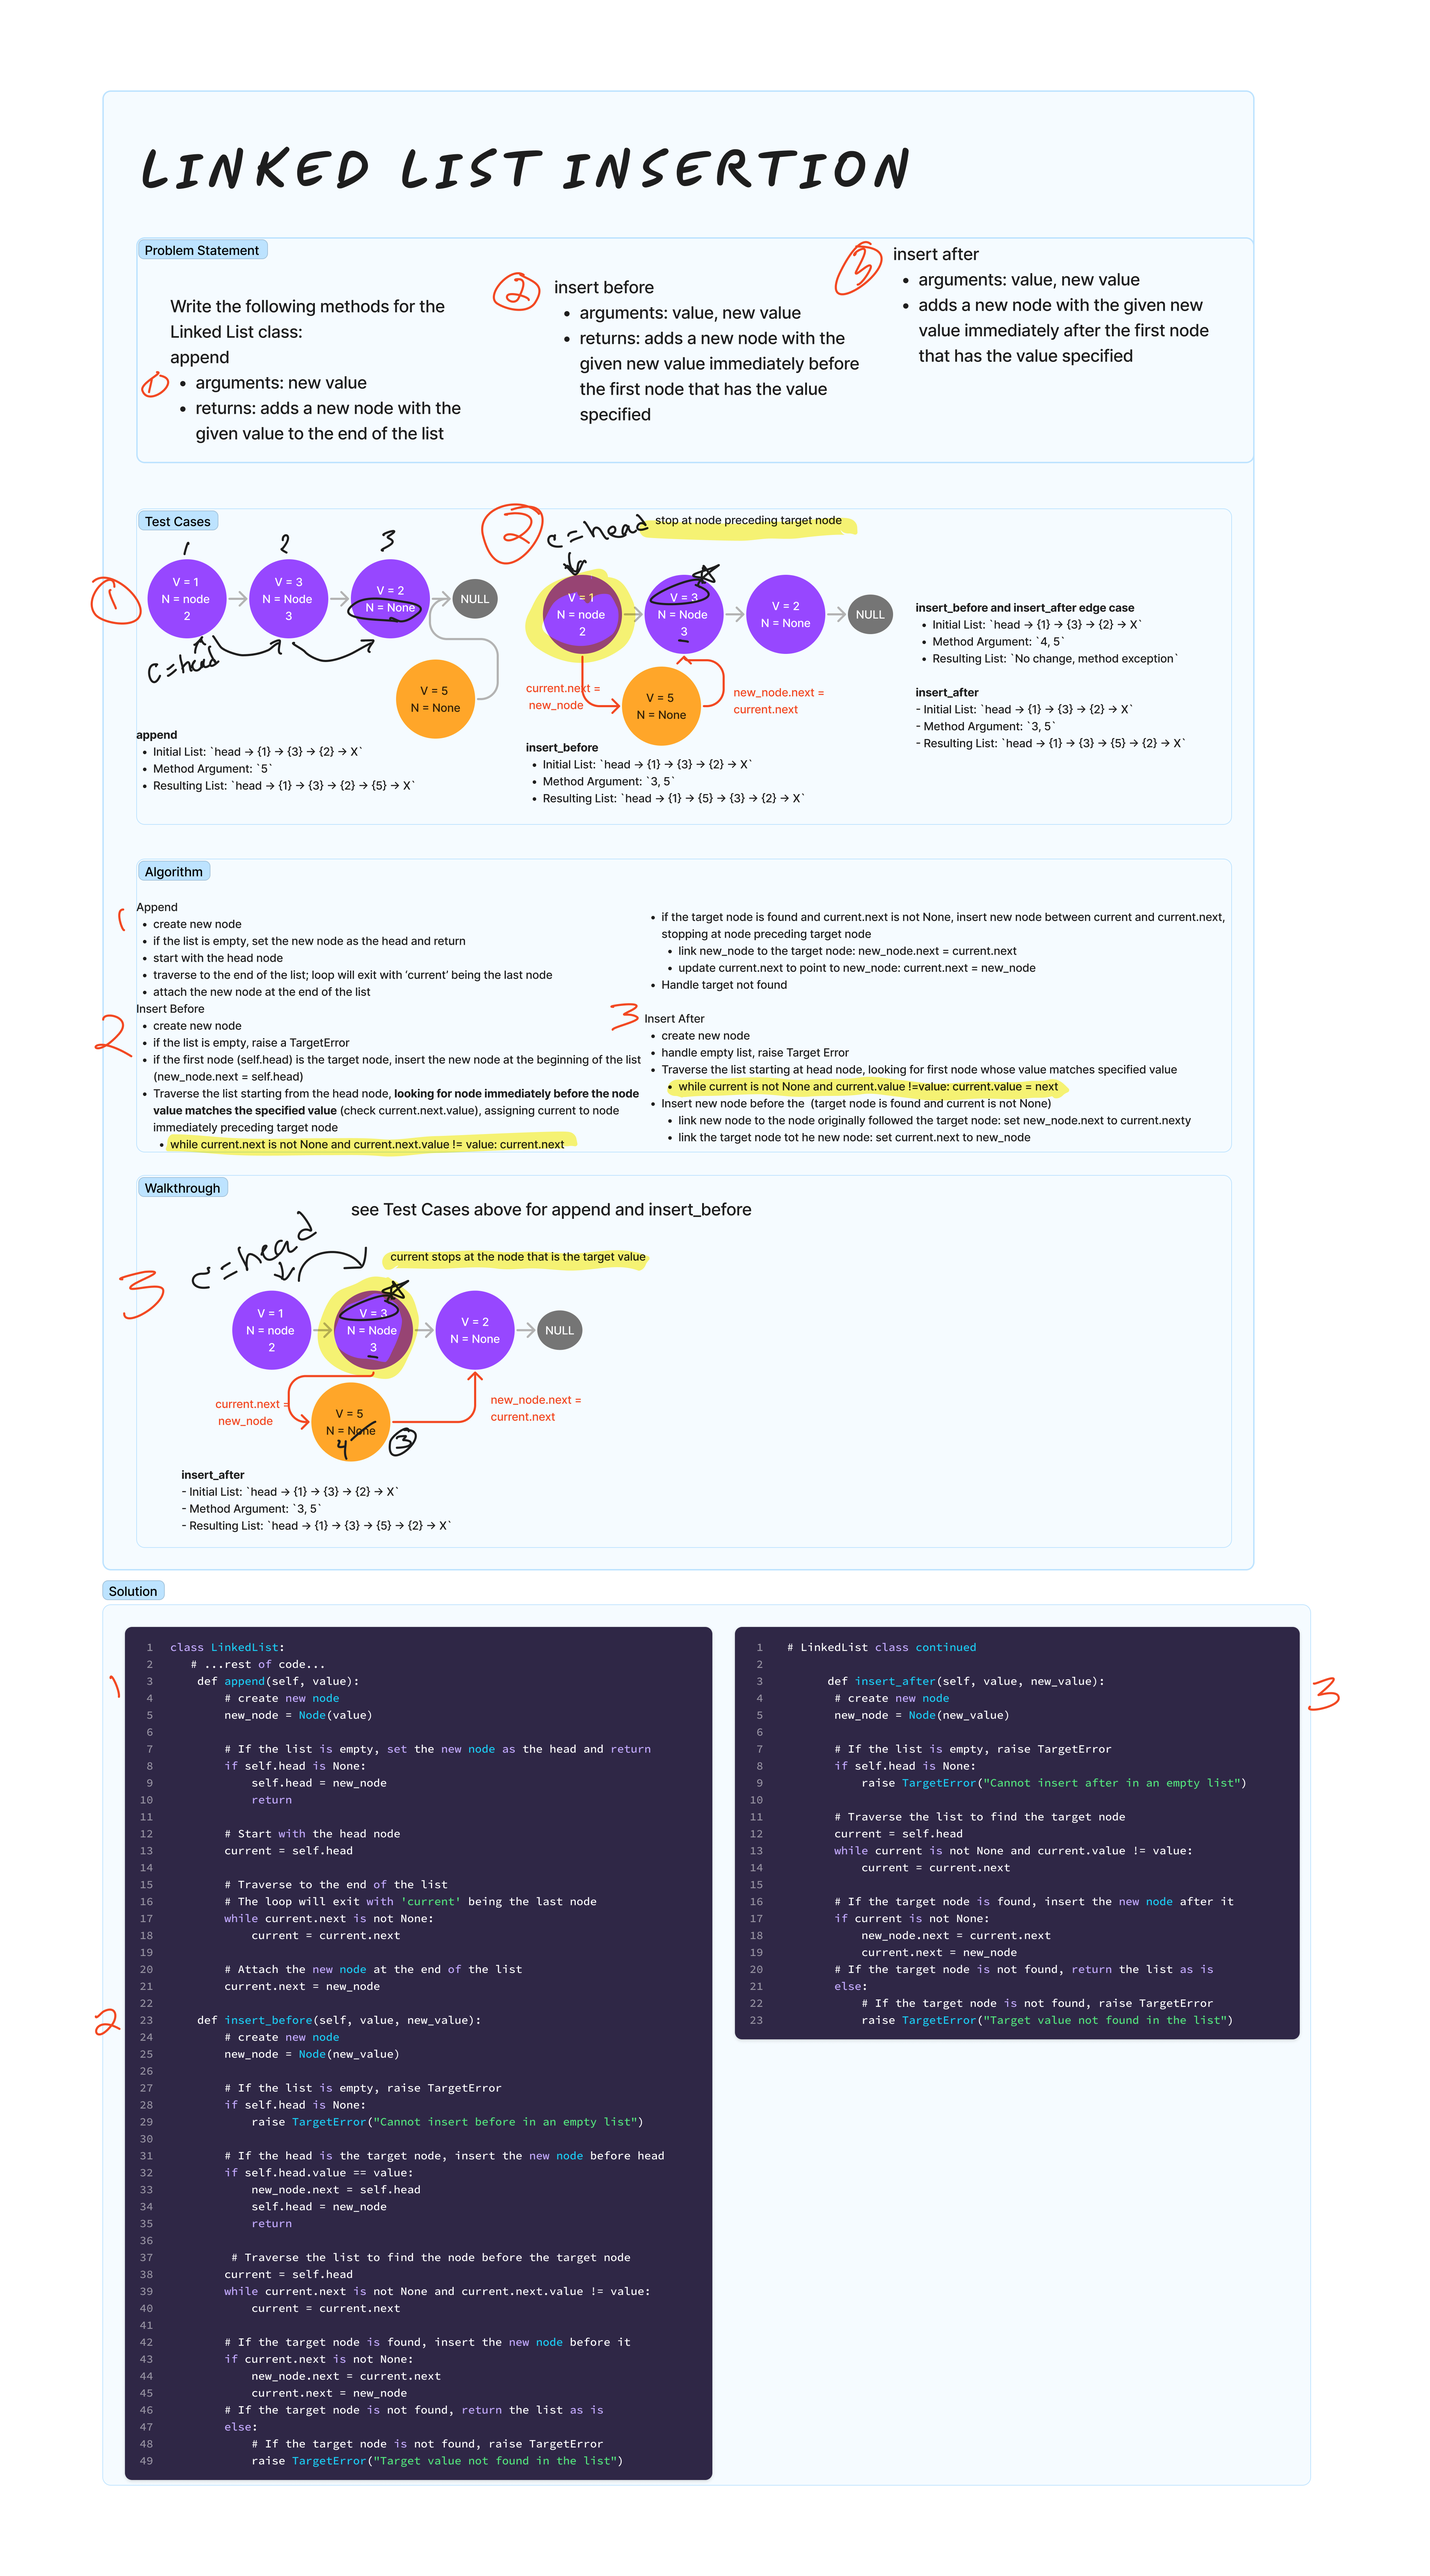
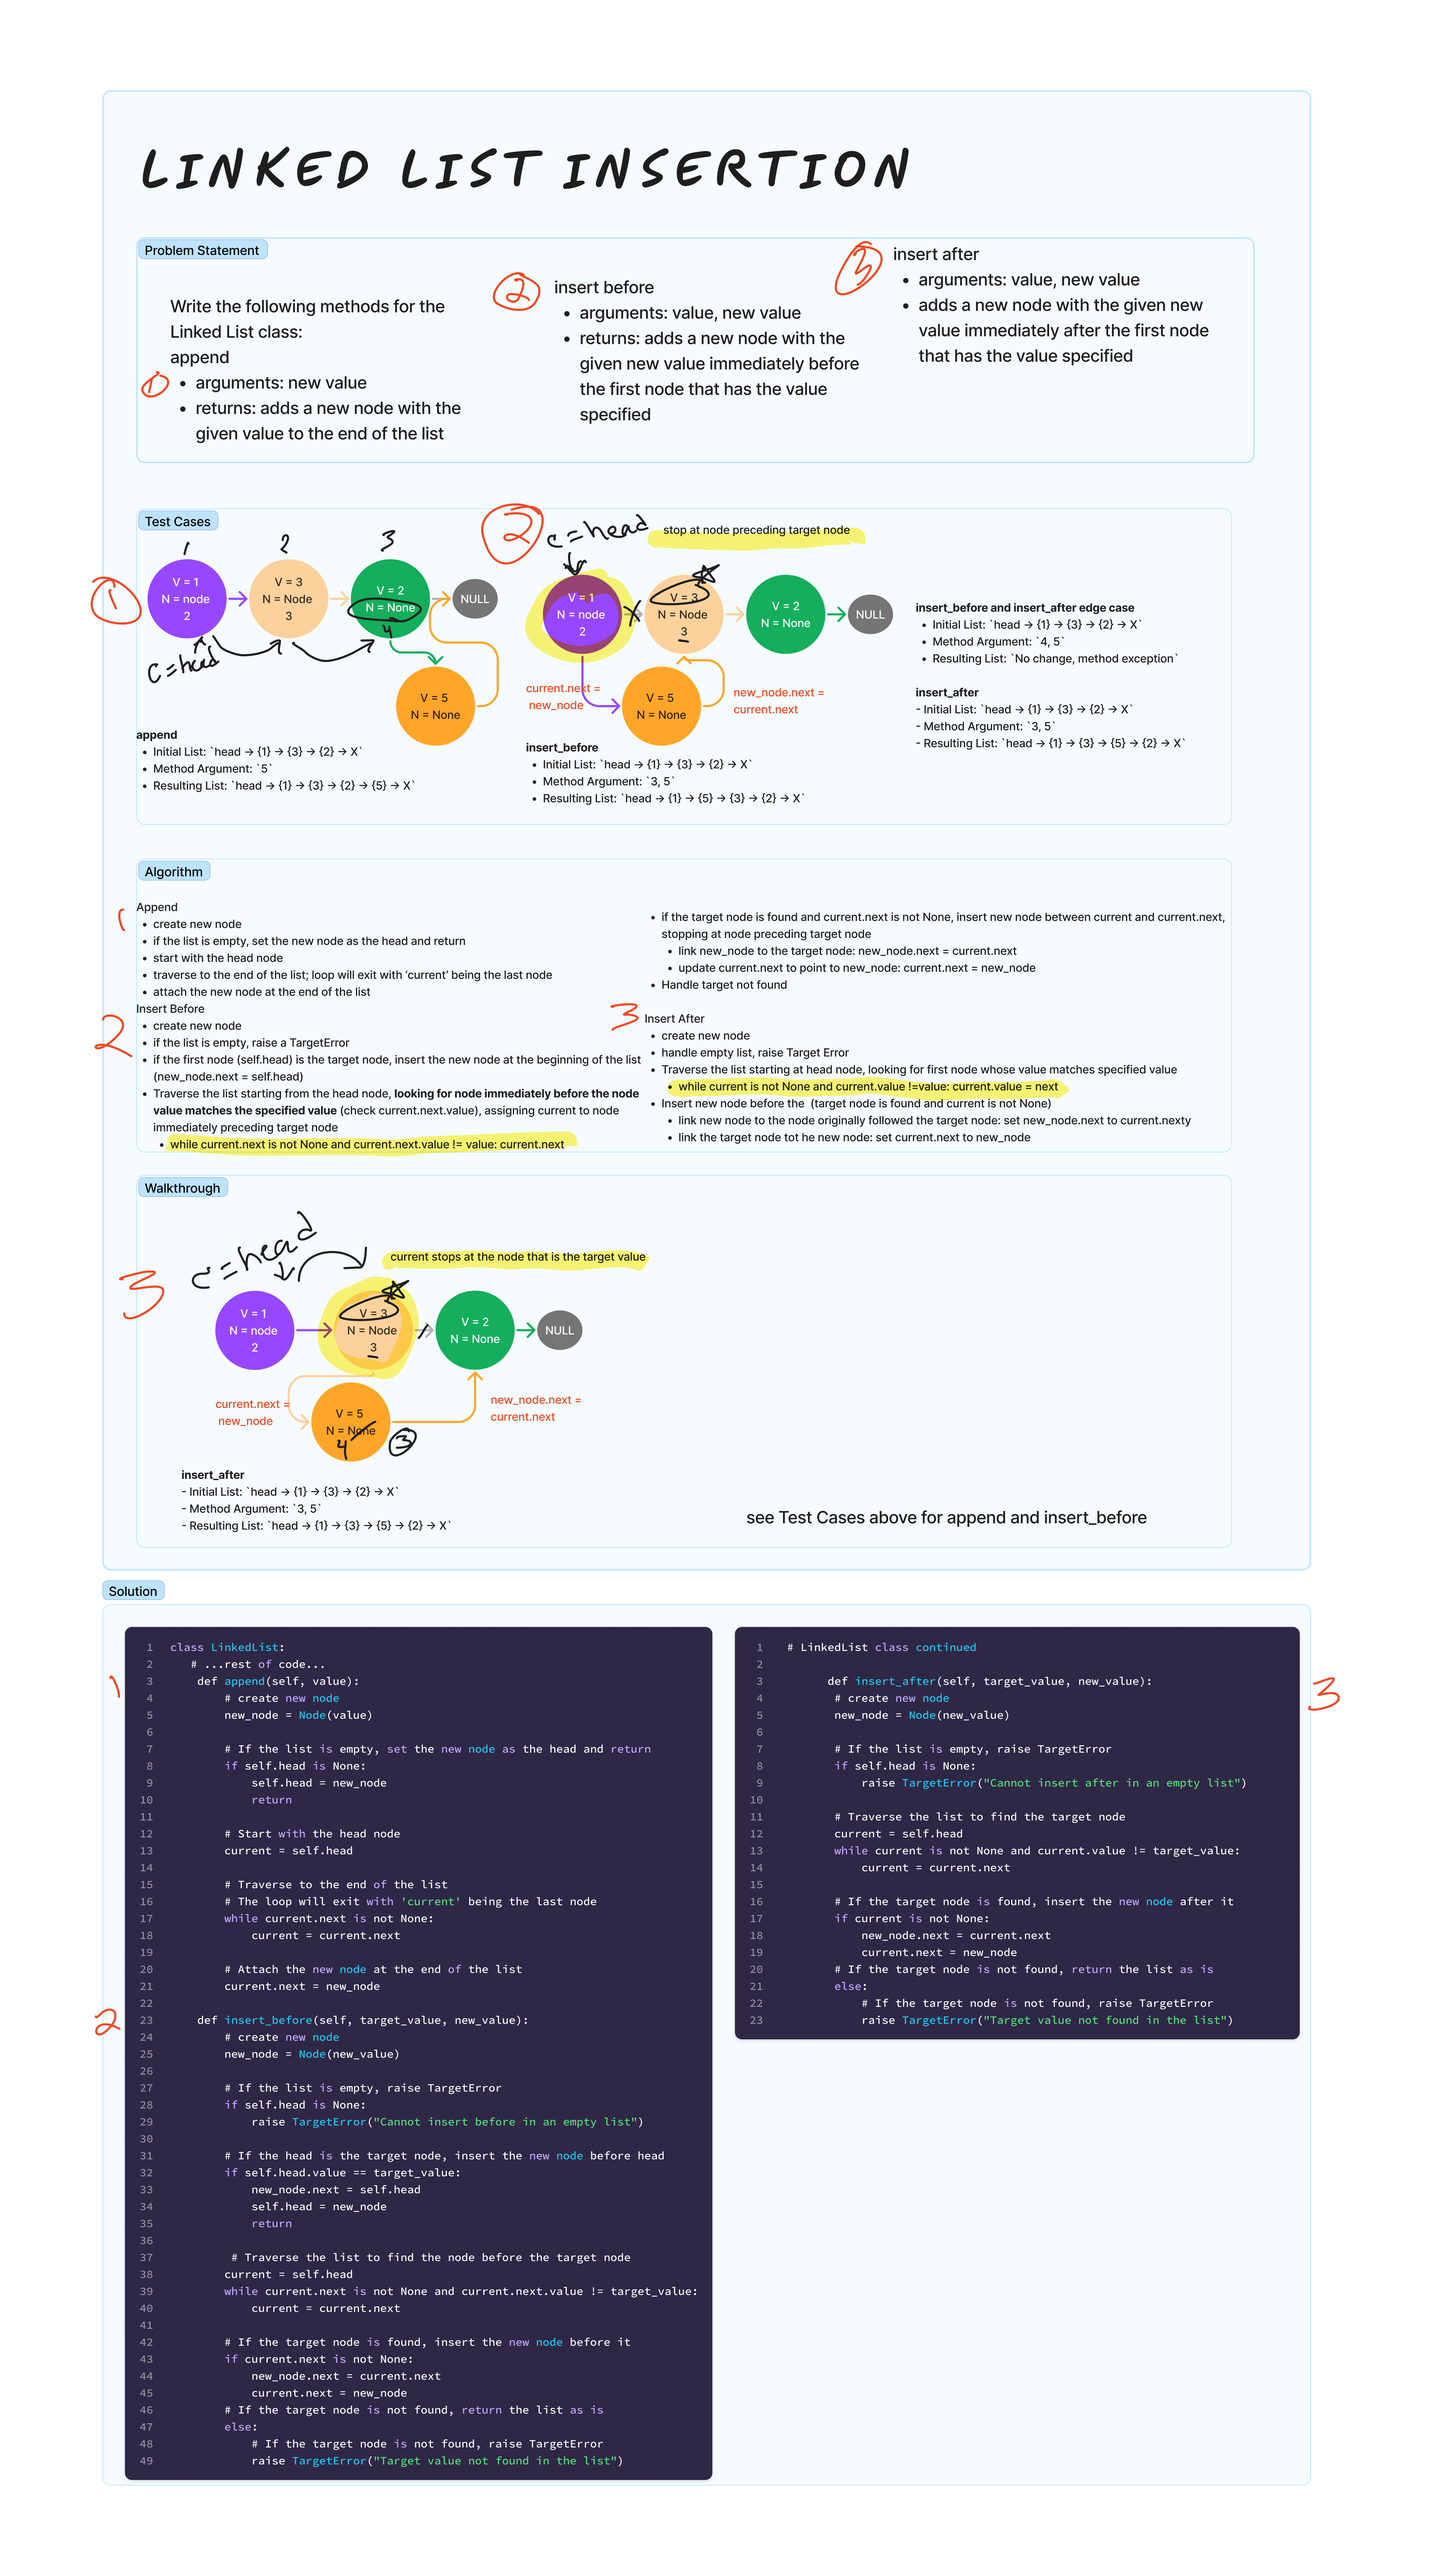
updates linked-list-insertions whiteboard

Changed region(s): [[0.4354, 0.1875, 0.591, 0.2812], [0.1555, 0.5, 0.3732, 0.5312], [0.1555, 0.2188, 0.3421, 0.2812]]

diff --git a/python/data_structures/linked_list.py b/python/data_structures/linked_list.py
@@ -68,7 +68,7 @@ class LinkedList:
         # Attach the new node at the end of the list
         current.next = new_node
 
-    def insert_before(self, value, new_value):
+    def insert_before(self, target_value, new_value):
         # create new node
         new_node = Node(new_value)
 
@@ -77,14 +77,14 @@ class LinkedList:
             raise TargetError("Cannot insert before in an empty list")
 
         # If the head is the target node, insert the new node before head
-        if self.head.value == value:
+        if self.head.value == target_value:
             new_node.next = self.head
             self.head = new_node
             return
 
          # Traverse the list to find the node before the target node
         current = self.head
-        while current.next is not None and current.next.value != value:
+        while current.next is not None and current.next.value != target_value:
             current = current.next
 
         # If the target node is found, insert the new node before it
@@ -96,7 +96,7 @@ class LinkedList:
             # If the target node is not found, raise TargetError
             raise TargetError("Target value not found in the list")
 
-    def insert_after(self, value, new_value):
+    def insert_after(self, target_value, new_value):
         # create new node
         new_node = Node(new_value)
 
@@ -106,7 +106,7 @@ class LinkedList:
 
         # Traverse the list to find the target node
         current = self.head
-        while current is not None and current.value != value:
+        while current is not None and current.value != target_value:
             current = current.next
 
         # If the target node is found, insert the new node after it

diff --git a/python/docs/linked_list_insertions/README.md b/python/docs/linked_list_insertions/README.md
@@ -9,13 +9,13 @@ Add the following methods to the LinkedList class: `append`, `insert before`, `i
 
 `insert before`
 
-- arguments: value, new value
-- adds a new node with the given new value immediately before the first node that has the value specified
+- arguments: target value, new value
+- adds a new node with the given new value immediately before the first node that has the target value specified
 
 `insert after`
 
-- arguments: value, new value
-- adds a new node with the given new value immediately after the first node that has the value specified
+- arguments: target value, new value
+- adds a new node with the given new value immediately after the first node that has the target value specified
 
 ## Examples
 
@@ -73,27 +73,7 @@ class LinkedList:
 
     ....other methods
 
-    def append(self, value):
-        # create new node
-        new_node = Node(value)
-
-        # If the list is empty, set the new node as the head and return
-        if self.head is None:
-            self.head = new_node
-            return
-
-        # Start with the head node
-        current = self.head
-
-        # Traverse to the end of the list
-        # The loop will exit with 'current' being the last node
-        while current.next is not None:
-            current = current.next
-
-        # Attach the new node at the end of the list
-        current.next = new_node
-
-    def insert_before(self, value, new_value):
+    def insert_before(self, target_value, new_value):
         # create new node
         new_node = Node(new_value)
 
@@ -102,14 +82,14 @@ class LinkedList:
             raise TargetError("Cannot insert before in an empty list")
 
         # If the head is the target node, insert the new node before head
-        if self.head.value == value:
+        if self.head.value == target_value:
             new_node.next = self.head
             self.head = new_node
             return
 
          # Traverse the list to find the node before the target node
         current = self.head
-        while current.next is not None and current.next.value != value:
+        while current.next is not None and current.next.value != target_value:
             current = current.next
 
         # If the target node is found, insert the new node before it
@@ -121,7 +101,7 @@ class LinkedList:
             # If the target node is not found, raise TargetError
             raise TargetError("Target value not found in the list")
 
-    def insert_after(self, value, new_value):
+    def insert_after(self, target_value, new_value):
         # create new node
         new_node = Node(new_value)
 
@@ -131,7 +111,7 @@ class LinkedList:
 
         # Traverse the list to find the target node
         current = self.head
-        while current is not None and current.value != value:
+        while current is not None and current.value != target_value:
             current = current.next
 
         # If the target node is found, insert the new node after it
